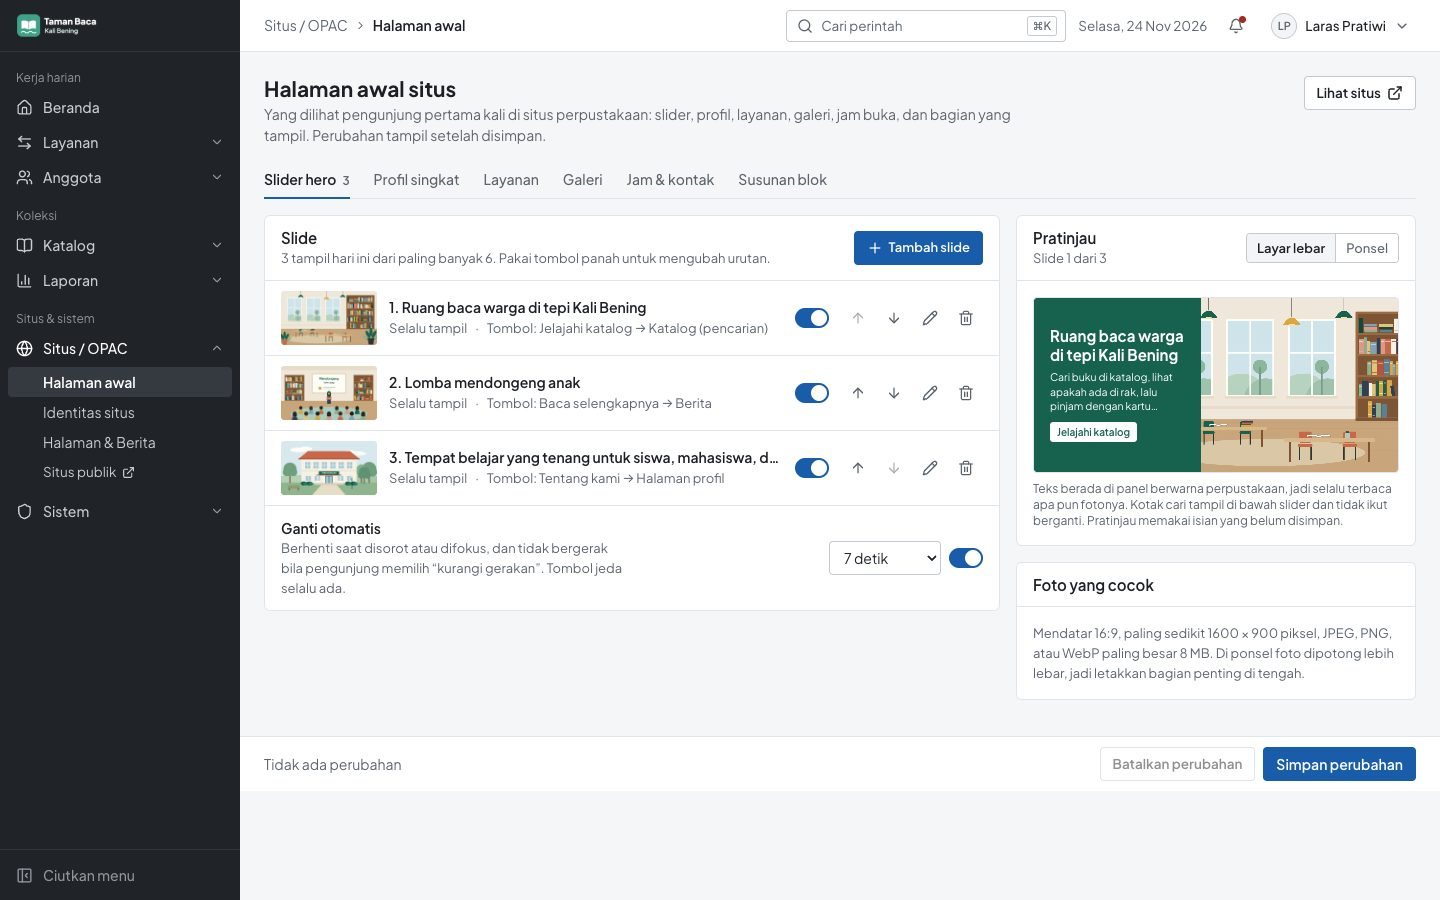
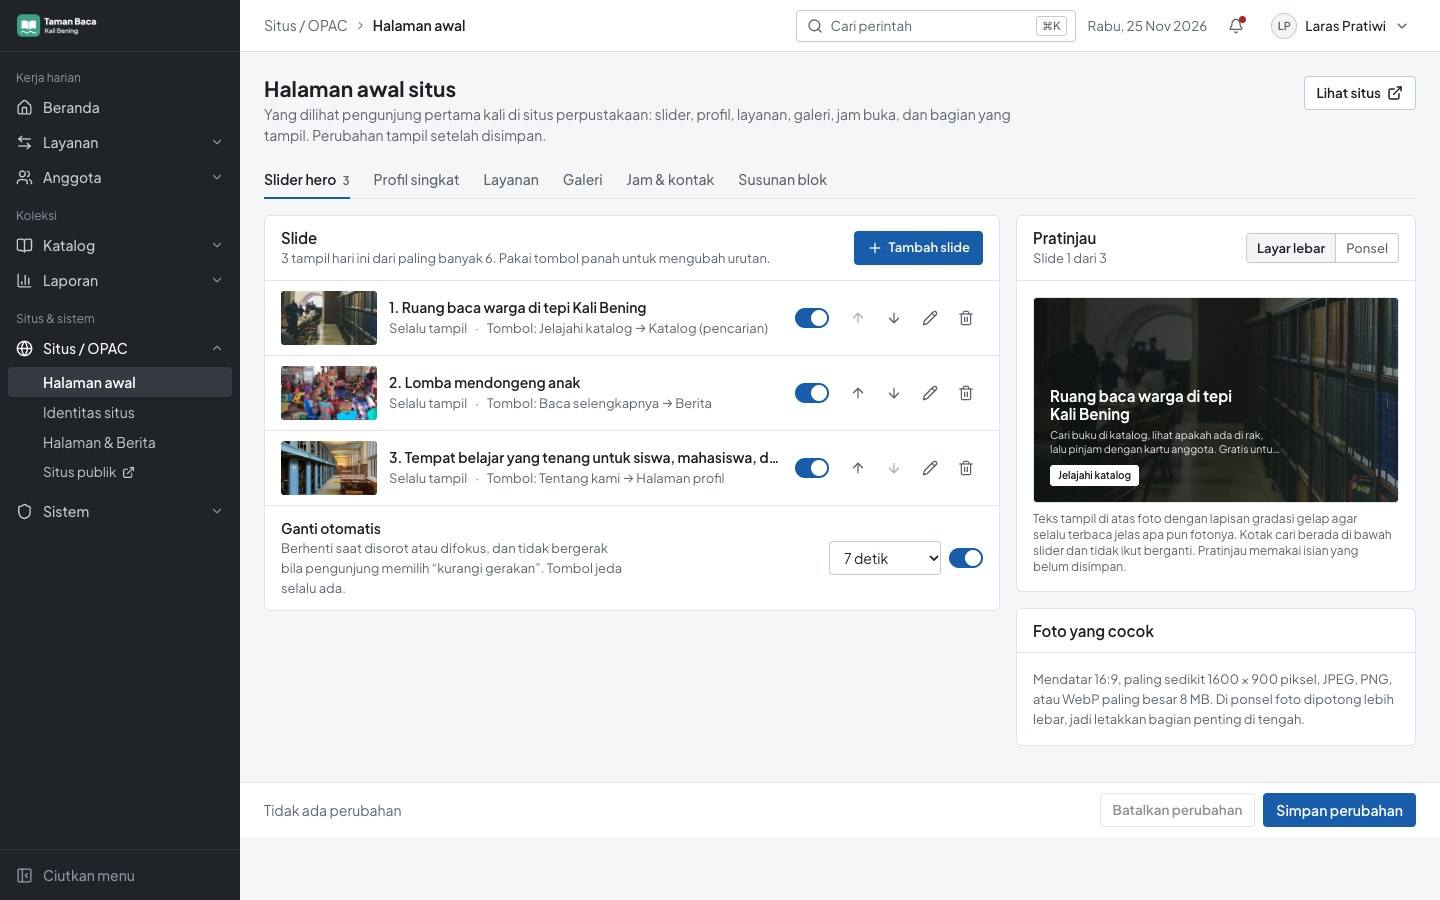
docs(opac): refresh README and guide screenshots for the updated OPAC

diff --git a/README.md b/README.md
@@ -9,7 +9,7 @@ untuk perpustakaan sekolah, kampus, dan umum. Edisi Komunitas bersifat sumber te
 > **Pra-1.0.** Rilis pertama: [0.1.0](https://github.com/arjunaayasa/altis/releases). API dan skema masih dapat berubah
 > antar versi pra-1.0.
 
-![Beranda situs perpustakaan contoh "Taman Baca Kali Bening" di ALTIS: slider dengan ilustrasi ruang baca, menu situs, dan kotak cari katalog](docs/img/opac-beranda.jpg)
+![Beranda situs perpustakaan contoh "Taman Baca Kali Bening" di ALTIS: slider foto ruang baca penuh dengan teks di atas foto, menu situs, tombol mode gelap, dan pita cari katalog](docs/img/opac-beranda.jpg)
 
 [English](#english)
 
@@ -28,7 +28,8 @@ untuk perpustakaan sekolah, kampus, dan umum. Edisi Komunitas bersifat sumber te
   akreditasi**: perkiraan nilai, daftar periksa bukti, register, dan berkas siap cetak.
 - **Situs profil perpustakaan dan OPAC:** beranda dengan slider yang dikelola dari admin, profil, galeri, berita dan
   agenda, halaman; identitas situs dengan logo sendiri; pencarian bawaan berfaset (FULLTEXT/GIN/FTS5); akun anggota
-  (pinjaman, reservasi, penanda, denda); bahasa Indonesia dan Inggris, terang dan gelap, berfungsi tanpa JavaScript;
+  (pinjaman, reservasi, penanda, denda); bahasa Indonesia dan Inggris, mode terang dan gelap (otomatis maupun lewat
+  tombol di kepala situs), tetap berfungsi penuh tanpa JavaScript;
   feed, sitemap, JSON-LD.
 - **Interoperabilitas:** OAI-PMH, salin katalog lewat SRU, pencarian ISBN.
 - **Migrasi dari SLiMS:** dari dump SQL atau koneksi langsung ke database SLiMS: katalog, lampiran dan sampul, anggota,
@@ -50,7 +51,7 @@ Semua tangkapan layar memakai data contoh perpustakaan fiktif "Taman Baca Kali B
 
 | Situs dan OPAC | Admin |
 | --- | --- |
-| <img src="docs/img/opac-beranda-ponsel-gelap.jpg" alt="Beranda situs perpustakaan di layar ponsel dalam mode gelap, dengan slider dan kotak cari" width="240"><br>Beranda di ponsel, mode gelap | ![Dasbor admin: angka pinjam, kembali, terlambat, dan kunjungan hari ini, grafik aktivitas meja, dan daftar yang perlu perhatian](docs/img/admin-dasbor.jpg)<br>Dasbor admin |
+| <img src="docs/img/opac-beranda-ponsel-gelap.jpg" alt="Beranda situs perpustakaan di layar ponsel dalam mode gelap, dengan tombol tema, menu, slider foto penuh, dan pita cari" width="240"><br>Beranda di ponsel, mode gelap | ![Dasbor admin: angka pinjam, kembali, terlambat, dan kunjungan hari ini, grafik aktivitas meja, dan daftar yang perlu perhatian](docs/img/admin-dasbor.jpg)<br>Dasbor admin |
 | ![Halaman profil perpustakaan dengan sejarah, lini masa, serta visi dan misi](docs/img/opac-profil.jpg)<br>Profil perpustakaan | ![Meja Layanan dengan panel anggota, kotak pindai barkod eksemplar, reservasi siap diambil, dan aturan pinjam tipe Siswa](docs/img/admin-meja-layanan.jpg)<br>Meja Layanan: pinjam dan kembali dengan pemindai |
 | ![Halaman judul di OPAC: ketersediaan tiap eksemplar, nomor panggil, dan tombol pesan](docs/img/opac-detail-judul.jpg)<br>Halaman judul dan ketersediaan eksemplar | ![Daftar bibliografi di admin dengan pencarian, saringan, dan kolom nomor panggil serta jumlah eksemplar](docs/img/admin-katalog-daftar.jpg)<br>Katalog: daftar bibliografi |
 | ![Akun anggota di OPAC: data keanggotaan, pemberitahuan denda, dan pinjaman saat ini dengan tombol perpanjang](docs/img/opac-akun-anggota.jpg)<br>Akun anggota | ![Pengaturan slider beranda di admin: daftar slide dengan foto, urutan, dan pratinjau](docs/img/admin-slider.jpg)<br>Slider beranda dikelola dari admin |
@@ -156,11 +157,11 @@ system: an alternative to SLiMS for school, academic and public libraries, under
 
 All screenshots use the sample data of a fictional library, "Taman Baca Kali Bening".
 
-![Home page of the sample library site on ALTIS: a slider with a reading-room illustration, the site menu and the catalogue search box](docs/img/opac-beranda.jpg)
+![Home page of the sample library site on ALTIS: a full-bleed reading-room photograph slider with overlaid text, the site menu, the theme toggle and the catalogue search band](docs/img/opac-beranda.jpg)
 
 | Library site and OPAC | Admin |
 | --- | --- |
-| <img src="docs/img/opac-beranda-ponsel-gelap.jpg" alt="The library home page on a phone in dark mode, with the slider and the search box" width="240"><br>Home page on a phone, dark mode | ![Admin dashboard: today's loans, returns, overdue loans and visits, a desk activity chart and a list of items that need attention](docs/img/admin-dasbor.jpg)<br>Admin dashboard |
+| <img src="docs/img/opac-beranda-ponsel-gelap.jpg" alt="The library home page on a phone in dark mode, with the theme toggle, menu, full-bleed slider and search band" width="240"><br>Home page on a phone, dark mode | ![Admin dashboard: today's loans, returns, overdue loans and visits, a desk activity chart and a list of items that need attention](docs/img/admin-dasbor.jpg)<br>Admin dashboard |
 | ![Library profile page with its history, timeline, vision and mission](docs/img/opac-profil.jpg)<br>Library profile | ![The service desk with the member panel, the item barcode box, a hold ready for pickup and the loan rules of the member type](docs/img/admin-meja-layanan.jpg)<br>Service desk: loans and returns with a scanner |
 | ![A title page in the OPAC: availability of each item, call number and a hold button](docs/img/opac-detail-judul.jpg)<br>Title page with item availability | ![The bibliographic record list in the admin, with search, filters, call numbers and item counts](docs/img/admin-katalog-daftar.jpg)<br>Catalogue: bibliographic records |
 | ![A member account in the OPAC: membership details, a fines notice and current loans with a renew button](docs/img/opac-akun-anggota.jpg)<br>Member account | ![The home page slider settings in the admin: the slides with their photos, their order and a preview](docs/img/admin-slider.jpg)<br>Home page slider managed from the admin |
@@ -175,7 +176,7 @@ stocktaking per branch; reports on the collection, members, visits and circulati
 export) and an accreditation workspace (estimated score, evidence checklists, registers, print-ready files); a
 library profile site and OPAC (a home page with a slider managed in the admin, profile, gallery, news and events,
 pages, a site identity with your own logo, built-in faceted search on FULLTEXT/GIN/FTS5, member accounts, Indonesian
-and English, light and dark, working without JavaScript, feeds, sitemap and JSON-LD); OAI-PMH, SRU copy cataloguing
+and English, light and dark (automatic or via the header toggle), working without JavaScript, feeds, sitemap and JSON-LD); OAI-PMH, SRU copy cataloguing
 and ISBN lookup; **migration from SLiMS** (SQL dump or direct connection: catalogue, attachments and covers, members,
 visits and circulation, with a dry run, reconciliation and a cutover checklist); an admin with one left sidebar and a
 command palette; and the foundation: install wizard, 2FA login, users, roles and branches, a chained audit trail,

diff --git a/docs/panduan/situs-opac.md b/docs/panduan/situs-opac.md
@@ -13,7 +13,8 @@ ada di `/admin`. Semua pengaturannya ada di menu **Situs / OPAC**.
 - **Profil** (`/profil`), **Galeri** (`/galeri`), **Berita** (`/berita`), dan halaman tetap (`/halaman/...`).
 - **Akun anggota** (`/akun`): pinjaman, riwayat, reservasi, penanda, kartu anggota, denda dan biaya, ganti kata sandi,
   unduh data sendiri. Anggota masuk dengan nomor anggota dan kata sandi yang diatur petugas.
-- Situs tersedia dalam bahasa Indonesia dan Inggris, mode terang dan gelap, dan nyaman dibuka di ponsel.
+- Situs tersedia dalam bahasa Indonesia dan Inggris, mode terang dan gelap (mengikuti pengaturan perangkat atau diubah
+  lewat tombol **Gelap** / **Terang** di kepala situs), dan nyaman dibuka di ponsel.
 
 Data pribadi anggota tidak pernah tampil di halaman publik.
 
@@ -49,9 +50,10 @@ Bagian pratinjau menunjukkan hasilnya sebelum disimpan. Setelah disimpan, peruba
 
 - **Slider hero:** paling banyak 6 slide. Tiap slide: foto, judul, subjudul, catatan kecil (misalnya tanggal acara),
   tombol dengan tujuannya (berita, halaman, atau alamat di situs ini), dan jadwal tampil (dari tanggal sampai tanggal).
-  Urutan diubah dengan tombol panah. Foto mendatar 16:9; letakkan bagian penting di tengah karena di ponsel foto
-  dipotong. Teks slide berada di panel berwarna, jadi selalu terbaca apa pun fotonya. Slider berganti otomatis,
-  berhenti saat disorot, dan selalu punya tombol jeda.
+  Urutan diubah dengan tombol panah. Foto mendatar 16:9 tampil penuh sebagai latar slide dengan lapisan gradasi gelap di
+  bawah teks agar judul tetap jelas terbaca apa pun fotonya (letakkan bagian penting foto agak ke kanan atau tengah agar
+  tidak tertutup teks di layar lebar maupun potongan di ponsel). Slider berganti otomatis, berhenti saat disorot, dan
+  selalu punya tombol jeda.
 - **Profil singkat:** paragraf tentang perpustakaan dan fotonya; sejarah dan lini masa; visi dan misi; pengelola (nama
   dan jabatan yang sengaja Anda ketik untuk dipublikasikan). Jumlah koleksi dan anggota aktif dihitung otomatis.
 - **Layanan:** daftar layanan dan foto fasilitas.
